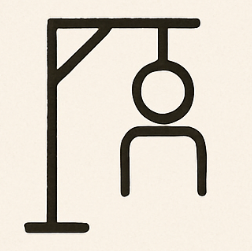
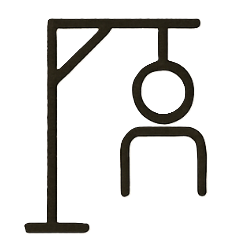
picture background removed

diff --git a/src/components/Hangman.jsx b/src/components/Hangman.jsx
@@ -4,6 +4,7 @@ import Zero from '../assets/Zero.png'
 import One from '../assets/One.png'
 import Two from '../assets/Two.png'
 import Four from '../assets/Four.png'
+import Three from '../assets/Three.png'
 import Five from '../assets/Five.png'
 import Six from '../assets/Six.png'
 import InpSound from '../assets/Inp.mp3'
@@ -87,7 +88,7 @@ const Hangman = () => {
     }, [message]);
 
     useEffect(() => {
-        if (count >= 6) { // 6 is your losing limit
+        if (count >= 6) {
             const lostAudio = new Audio(LostSOund);
             lostAudio.currentTime = 0;
             lostAudio.play();
@@ -175,16 +176,36 @@ const Hangman = () => {
                         </button>}
                 </div>
                 <div
-                    className='md:w-[30%] w-full'
+                    className='md:w-[30%] w-full flex justify-center items-center'
                 >
-                    {count == 0 && <img src={Zero} alt="hangman" />}
-                    {count == 1 && <img src={One} alt="hangman" />}
-                    {count == 2 && <img src={Two} alt="hangman" />}
-                    {count == 3 && <img src={Four} alt="hangman" />}
-                    {count == 4 && <img src={Four} alt="hangman" />}
-                    {count == 5 && <img src={Five} alt="hangman" />}
-                    {count == 6 && <img src={Six} alt="hangman" />}
-
+                    {count == 0 && <img 
+                    src={Zero} alt="hangman"
+                    className='w-[100px] md:w-[180px]' 
+                    />}
+                    {count == 1 && <img 
+                    src={One} alt="hangman" 
+                    className='w-[100px] md:w-[180px]'
+                    />}
+                    {count == 2 && <img 
+                    src={Two} alt="hangman"
+                    className='w-[100px] md:w-[180px]'
+                    />}
+                    {count == 3 && <img 
+                    src={Three} alt="hangman" 
+                    className='w-[100px] md:w-[180px]'
+                    />}
+                    {count == 4 && <img 
+                    src={Four} alt="hangman" 
+                    className='w-[100px] md:w-[180px]'
+                    />}
+                    {count == 5 && <img 
+                    src={Five} alt="hangman" 
+                    className='w-[100px] md:w-[180px]'
+                    />}
+                    {count == 6 && <img 
+                    src={Six} alt="hangman" 
+                    className='w-[100px] md:w-[180px]'
+                    />}
                 </div>
             </div>
         </>

diff --git a/index.html b/index.html
@@ -4,7 +4,7 @@
     <meta charset="UTF-8" />
     <link rel="icon" type="image/svg+xml" href="/vite.svg" />
     <meta name="viewport" content="width=device-width, initial-scale=1.0" />
-    <title>Hangman || Om Shrestha </title>
+    <title>Hangman | Om Shrestha </title>
   </head>
   <body>
     <div id="root"></div>
